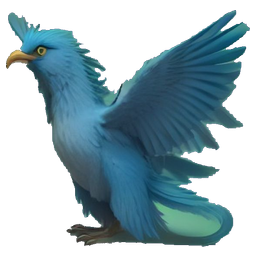
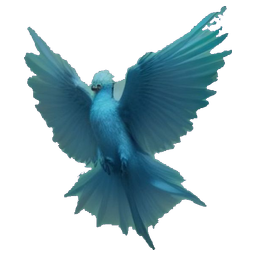
Pollinations が種でキャッシュしていた問題に対処する
プロンプトを直して --force で作り直しても、まったく同じ画像が返って
きていた。失敗した4枚を何度回しても、検査の数値が1桁まで同じままで、
直したはずのプロンプトが効いていないように見えていたのはこのため。
Pollinations は (プロンプト, seed) ではなく seed でキャッシュしている。

--force のときは既定で時刻から種をずらすようにした。再現したいときは
SPRITE_SEED_SALT を明示する。入れた直後から、同じ4枚でも毎回ちがう
失敗の仕方をするようになった(＝ちゃんと別の絵を引いている)。

伝説のうち4体は、モチーフに「体から離れて浮くもの」(光る輪・背中の
とげ)が入っており、それが別キャラとして数えられて弾かれていた。
一体の塊として描かせる書き方にあらためた。

Claude-Session: https://claude.ai/code/session_01XU38J8mgHTjoHzdZ95BTWx

diff --git a/data/adventure/legends.ts b/data/adventure/legends.ts
@@ -81,7 +81,7 @@ export const LEGENDS: LegendDef[] = [
       'ムゲンドラは、あなたに ついてくることに 決めたようだ！',
     ],
     motif:
-      'a giant four-legged golden dragon with a scaly reptilian body, a long tail, folded leathery wings and curved horns',
+      'a big golden dragon standing on four legs, one solid body with thick golden scales, a long tail and two curved horns',
     shrine: { color: '#f5b942', style: 'monolith' },
   },
   {
@@ -137,7 +137,7 @@ export const LEGENDS: LegendDef[] = [
       'シンカイオウは、あなたに ついてくることに 決めたようだ！',
     ],
     motif:
-      'a giant blue-and-silver sea serpent with a long coiling scaly body, fins along its back and a crystal horn',
+      'a big blue-and-silver dragon standing on four legs, one solid body covered in smooth scales, a long tail and a single crystal horn',
     shrine: { color: '#4aa8e0', style: 'ring' },
   },
   {
@@ -193,7 +193,7 @@ export const LEGENDS: LegendDef[] = [
       'キョダイオンは、あなたに ついてくることに 決めたようだ！',
     ],
     motif:
-      'a giant four-legged stag beast whose body is bark and moss, with antlers of branches and glowing emerald rings on its flanks',
+      'a big green stag standing on four legs, one solid body of bark and moss, a long tail and large branching antlers',
     shrine: { color: '#5cbf7a', style: 'monolith' },
   },
   {
@@ -249,7 +249,7 @@ export const LEGENDS: LegendDef[] = [
       'リッタイオンは、あなたに ついてくることに 決めたようだ！',
     ],
     motif:
-      'a giant four-legged guardian beast armored in geometric crystal plates of gold and white marble, with angular spikes along its back',
+      'a big golden armored beast standing on four legs, one solid body plated in smooth geometric panels, a long tail and short blunt horns',
     shrine: { color: '#c9a227', style: 'pillar' },
   },
 ];

diff --git a/scripts/spriteJobs.ts b/scripts/spriteJobs.ts
@@ -84,7 +84,10 @@ const LEGEND_STYLE =
   'an original Pokemon-style LEGENDARY pocket monster, a giant beast with animal anatomy: ' +
   'four legs with paws or claws, a long tail, a muzzle, scales and fur, tall horns, ' +
   'sharp angular armor plates and glowing ornate runes along its flanks, ' +
-  'a fully grown powerful adult creature, dignified and imposing';
+  'a fully grown powerful adult creature, dignified and imposing, ' +
+  // 明るさを言っておかないと、モデルが夜や洞窟の情景を描いてしまい、
+  // 背景が緑でなくなって作り直しに落ちる。
+  'brightly lit in clear daylight, light vivid colors, every part clearly visible';
 
 const NEG_BASE =
   // 背景まわりを厚めに書いてある。ここが薄いと、モデルが情景を描いてしまい
